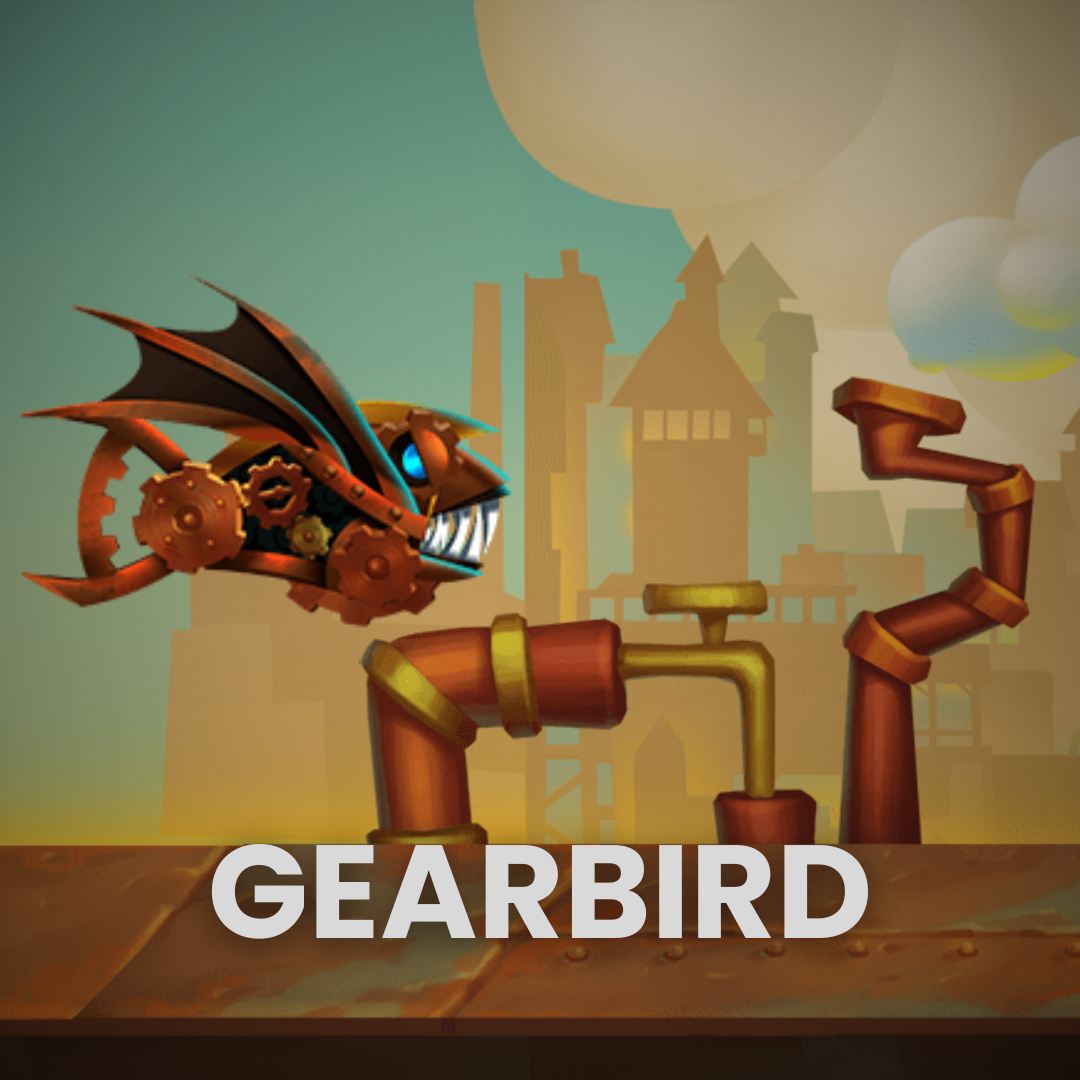
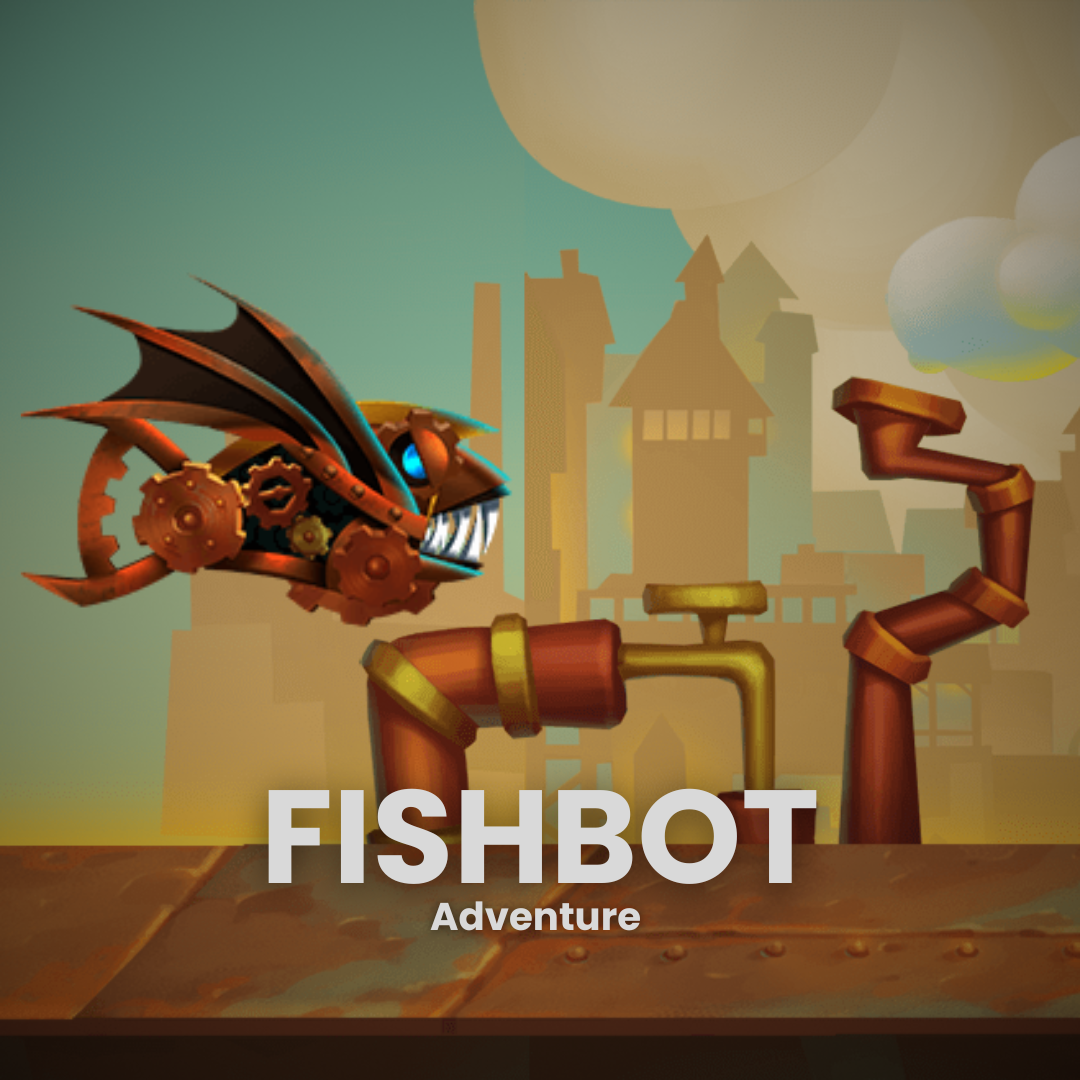
Fix sound

Changed region(s): [[0.1833, 0.7028, 0.825, 0.8861]]

diff --git a/index.html b/index.html
@@ -8,7 +8,7 @@
     <link rel="preconnect" href="https://fonts.gstatic.com" crossorigin>
     <link href="https://fonts.googleapis.com/css2?family=Bungee&display=swap" rel="stylesheet">
     <link rel="stylesheet" href="style.css">
-    <title>Document</title>
+    <title>FishBot Adventure</title>
 </head>
 
 <body>
@@ -18,14 +18,14 @@
         <img src="assets/background_single.png" alt="background" id="backround">
         <img src="assets/player_fish.png" alt="background" id="player_fish">
         <img src="assets/smallGears.png" alt="background" id="smallGears">
-        <audio src="/assets/sound/charge.mp3" id="charge"></audio>
-        <audio src="/assets/sound/win.mp3" id="win"></audio>
-        <audio src="/assets/sound/lose.mp3" id="lose"></audio>
-        <audio src="/assets/sound/flap1.mp3" id="flap1"></audio>
-        <audio src="/assets/sound/flap2.mp3" id="flap2"></audio>
-        <audio src="/assets/sound/flap3.mp3" id="flap3"></audio>
-        <audio src="/assets/sound/flap4.mp3" id="flap4"></audio>
-        <audio src="/assets/sound/flap5.mp3" id="flap5"></audio>
+        <audio src="assets/sound/charge.mp3" id="charge"></audio>
+        <audio src="assets/sound/win.mp3" id="win"></audio>
+        <audio src="assets/sound/lose.mp3" id="lose"></audio>
+        <audio src="assets/sound/flap1.mp3" id="flap1"></audio>
+        <audio src="assets/sound/flap2.mp3" id="flap2"></audio>
+        <audio src="assets/sound/flap3.mp3" id="flap3"></audio>
+        <audio src="assets/sound/flap4.mp3" id="flap4"></audio>
+        <audio src="assets/sound/flap5.mp3" id="flap5"></audio>
     </div>
 
     <script src="audio.js"></script>

diff --git a/welcome.html b/welcome.html
@@ -3,7 +3,7 @@
 <head>
     <meta charset="UTF-8">
     <meta name="viewport" content="width=device-width, initial-scale=1.0">
-    <title>Super Adventure Game</title>
+    <title>FishBot Adventure</title>
     <style>
         * {
             margin: 0;
@@ -73,8 +73,8 @@
     <img src="assets/thumbnail.png" alt="Gambar Game">
     <p>Lewati semua rintangan dan raih skor tertinggi!!</p>
     <h3>Cara Bermain</h3>
-    <p><strong>Mobile / layar sentuh :</strong>tap untuk melompat, swipe ke kanan untuk BOST, Pastikan ponsel anda dalam mode landscape untuk meningkatkan pengalaman bermain anda</p>
-    <p><strong>PC / Keyboard :</strong>"Space" untuk melompat, "Shift" ke kanan untuk BOST</p>
+    <p><strong>Mobile / layar sentuh :</strong>tap untuk melompat, swipe ke kanan untuk BOST, Pastikan ponsel dalam mode landscape untuk meningkatkan pengalaman bermain anda</p>
+    <p><strong>PC / Keyboard :</strong>"Space" untuk melompat, "Shift" untuk BOST</p>
     <a href="/" class="play-button">Mainkan Sekarang</a>
 </div>
  
